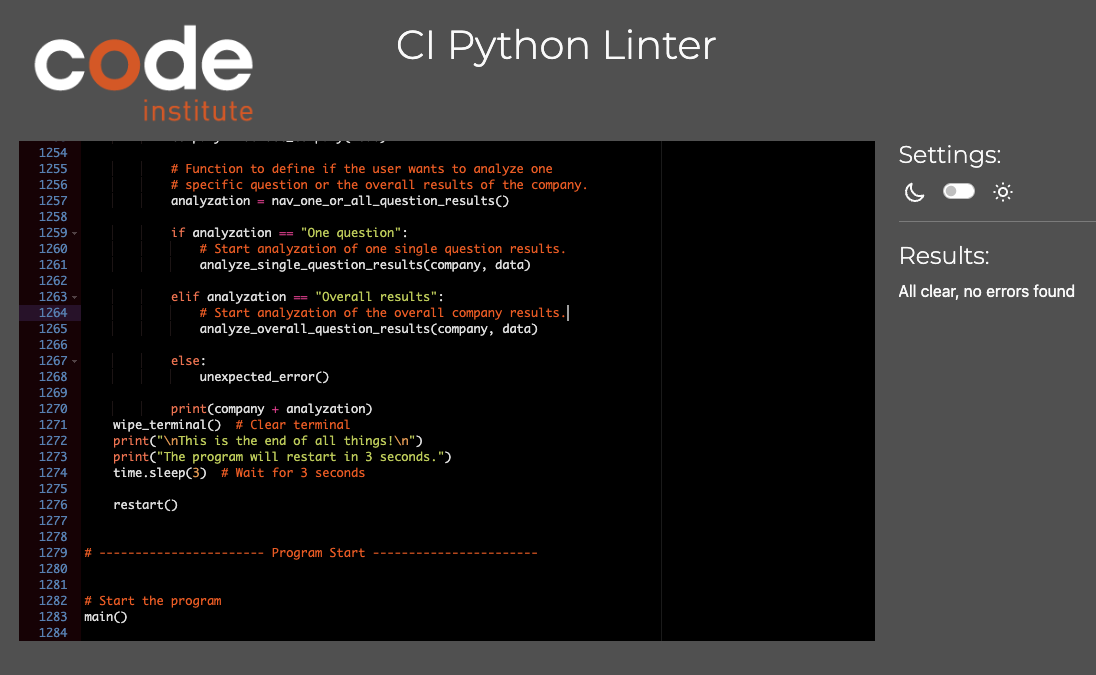
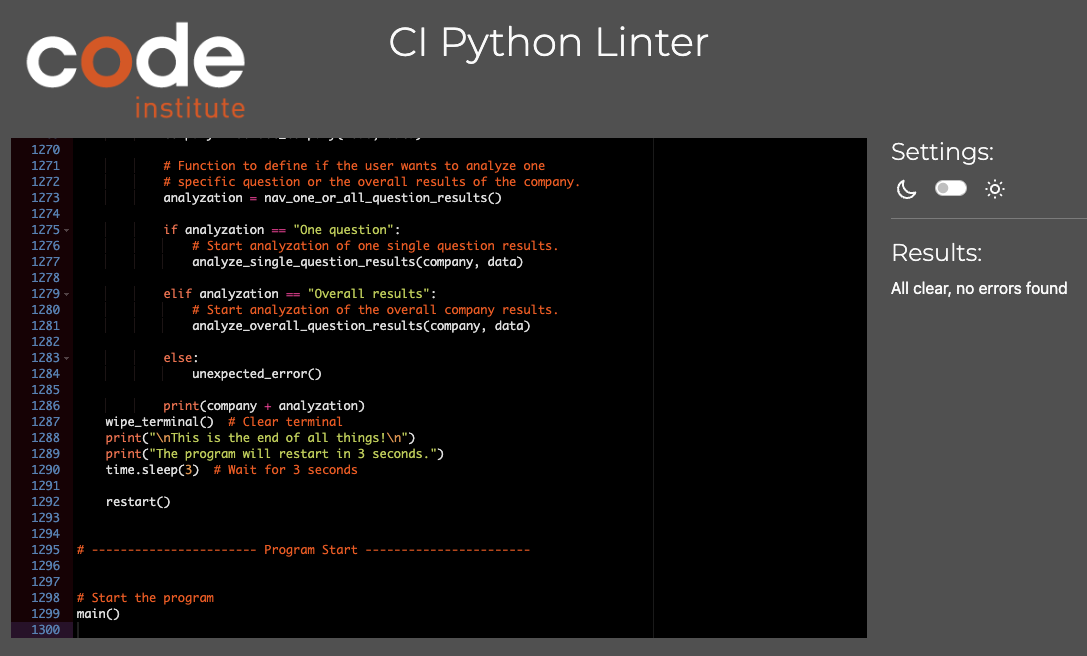
Add manuel testing for login to README

diff --git a/run.py b/run.py
@@ -269,8 +269,10 @@ def data_get_excel_file():
             # Ask if the user wants to try again entering a file name
             while True:  # Test if user enters only y or n and no other key.
                 print("Do you want to try again?\n")
-                print(Fore.GREEN + "(1)" + Style.RESET_ALL + " to enter different file name\n")
-                print(Fore.RED + "(0)" + Style.RESET_ALL + " to EXIT the application\n")
+                print(Fore.GREEN + "(1)" + Style.RESET_ALL
+                      + " to enter different file name\n")
+                print(Fore.RED + "(0)" + Style.RESET_ALL
+                      + " to EXIT the application\n")
                 try_again = input("What would you like to do?")
                 if try_again == "1":
                     print("\n")
@@ -465,7 +467,7 @@ def analyze_single_question_results(company, data):
             + Fore.BLUE
             + company
             + Style.RESET_ALL
-            + " are as follows:\n" 
+            + " are as follows:\n"
             )
         print("-------------------------------------------------- \n")
 
@@ -761,7 +763,7 @@ def login():
                       "for 5 minutes!" + Style.RESET_ALL
                       )
                 print("No, not really ;)")
-                time.sleep(4)  # Wait for 4 seconds
+                time.sleep(5)  # Wait for 5 seconds
                 restart()
                 break
 
@@ -937,7 +939,7 @@ def nav_analyze_different_question():
               + " Analyze a different company\n"
               )
         print(Fore.RED + "(0)" + Style.RESET_ALL
-              +" Exit the program\n"
+              + " Exit the program\n"
               )
 
         option = input("What would you like to do?: ")
@@ -1256,7 +1258,7 @@ def main():
 
         # Choose data source to analyze. Excel file or gspread file.
         data = data_choose_source()
-        
+
         # Defines mode as analyzation mode
         mode = "analyze"
 
@@ -1291,9 +1293,6 @@ def main():
 
 
 # ----------------------- Program Start -----------------------
-
-
-
 
 
 # Start the program

diff --git a/README.md b/README.md
@@ -261,14 +261,16 @@ The code validation with the Code Institute Python Linter shows no errors
 | Complete survey | Answer all questions with valide input | Load thany you screen with user name and company, then load reload screen and restart app | Pass |
 | Complete survey data upload | Answer all questions with valide input | Data is uploaded as a new row to gspread with current date | Pass |
 
-
+| **Test** | **Description** | **Expected Outcome** | **Result** |
 | --- | --- | --- | --- |
 | **Analyzing Results** |  |  |  |
 | --- | --- | --- | --- |
 | **User Login** |  |  |  |
-
-
-| **Select Data Sourcey** |  |  |  |
+| Enter correct username | Enter "Test" as username and press enter | Display input for password | Pass |
+| Enter correct password | Enter "Test" as password and press enter | Show screen with login confirmation, followed by data source selection | Pass |
+| Enter incorrect login credentials | Enter ether wrong username or password or both | Display error message and increase failed attempts counter | Pass |
+| 3 fails login attemts | Use incorrect login credentials for 3 times | Increase failed attempts counter and restart app after third failed attempt | Pass |
+| **Select Data Source** |  |  |  |
 | Select "Import Excel file to analyze" | Enter "1" and press enter | Show screen with input of Excel file name | Pass |
 | Correct Excel file name | Enter a correct Excel file name and press enter | Show screen for selection of company | Pass |
 | Wrong Excel file name | Enter a wrong Excel file name and press enter | Show error screen with option to try again or not | Pass |
